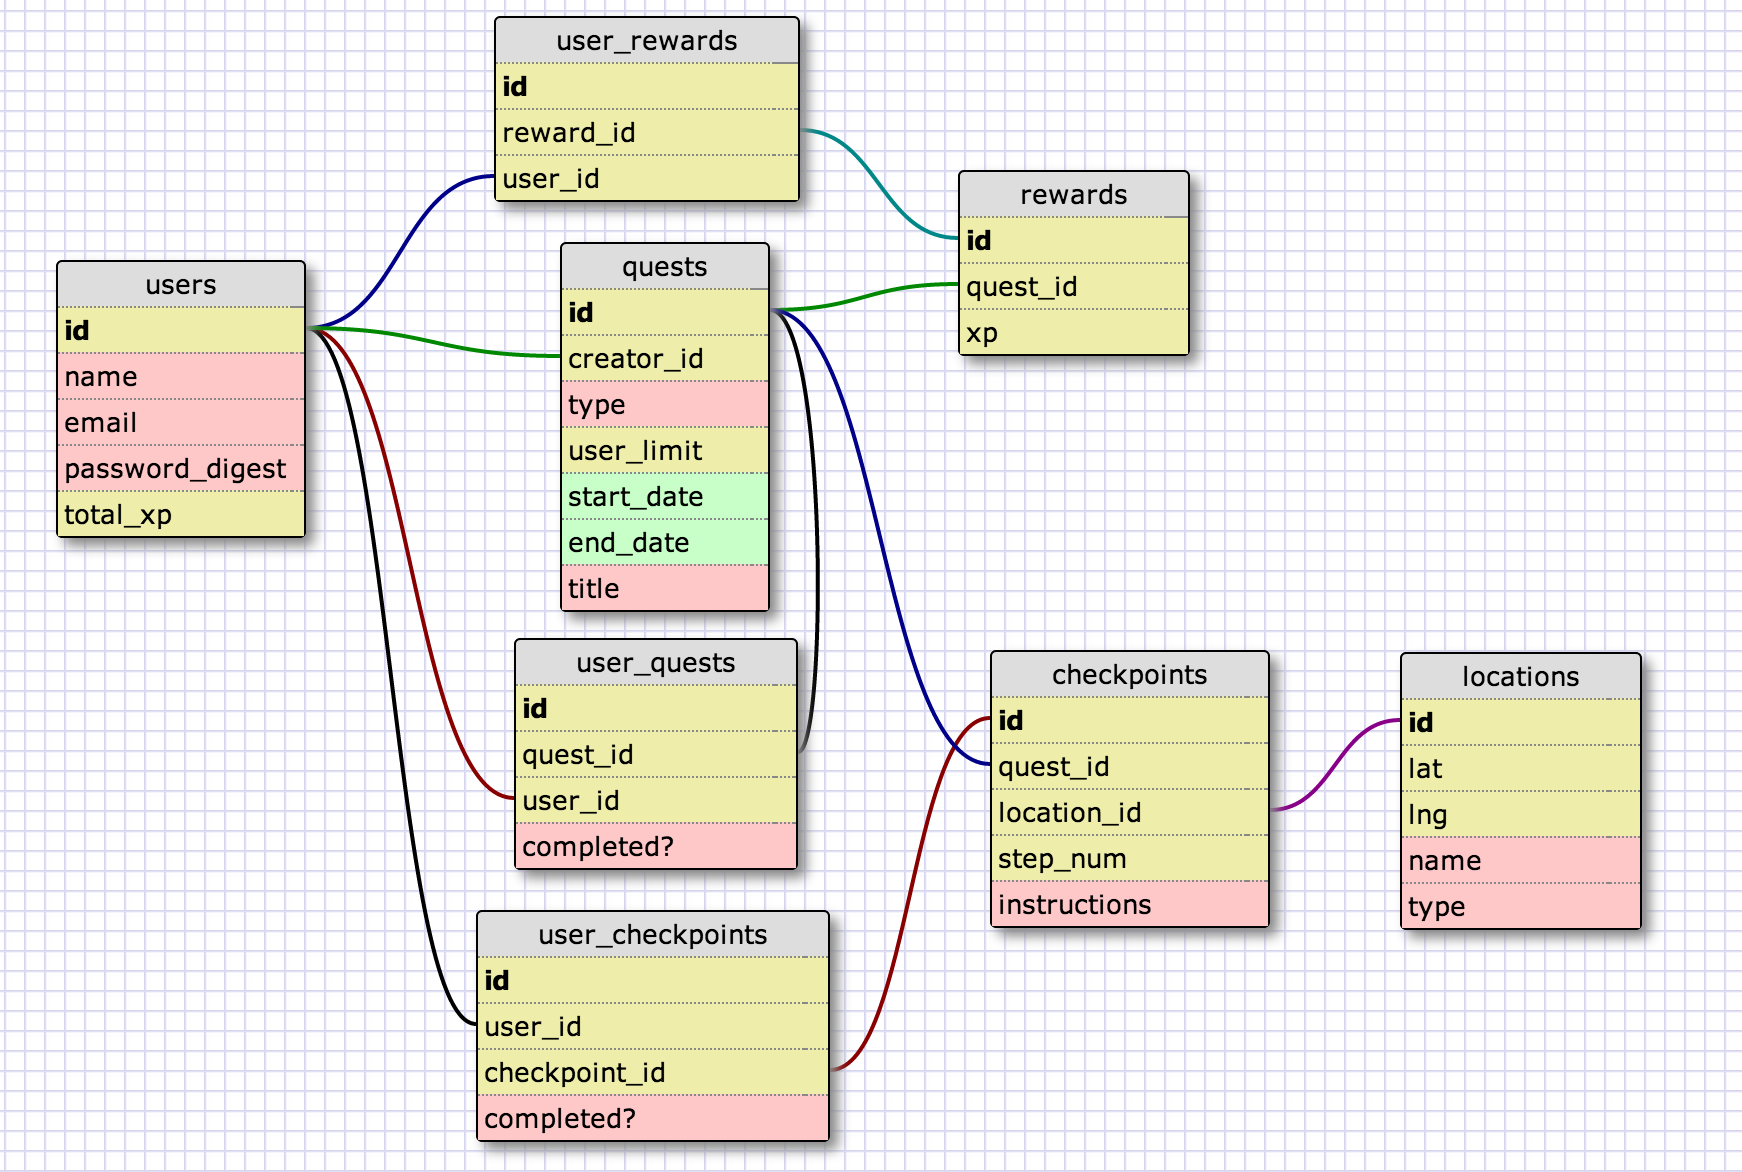
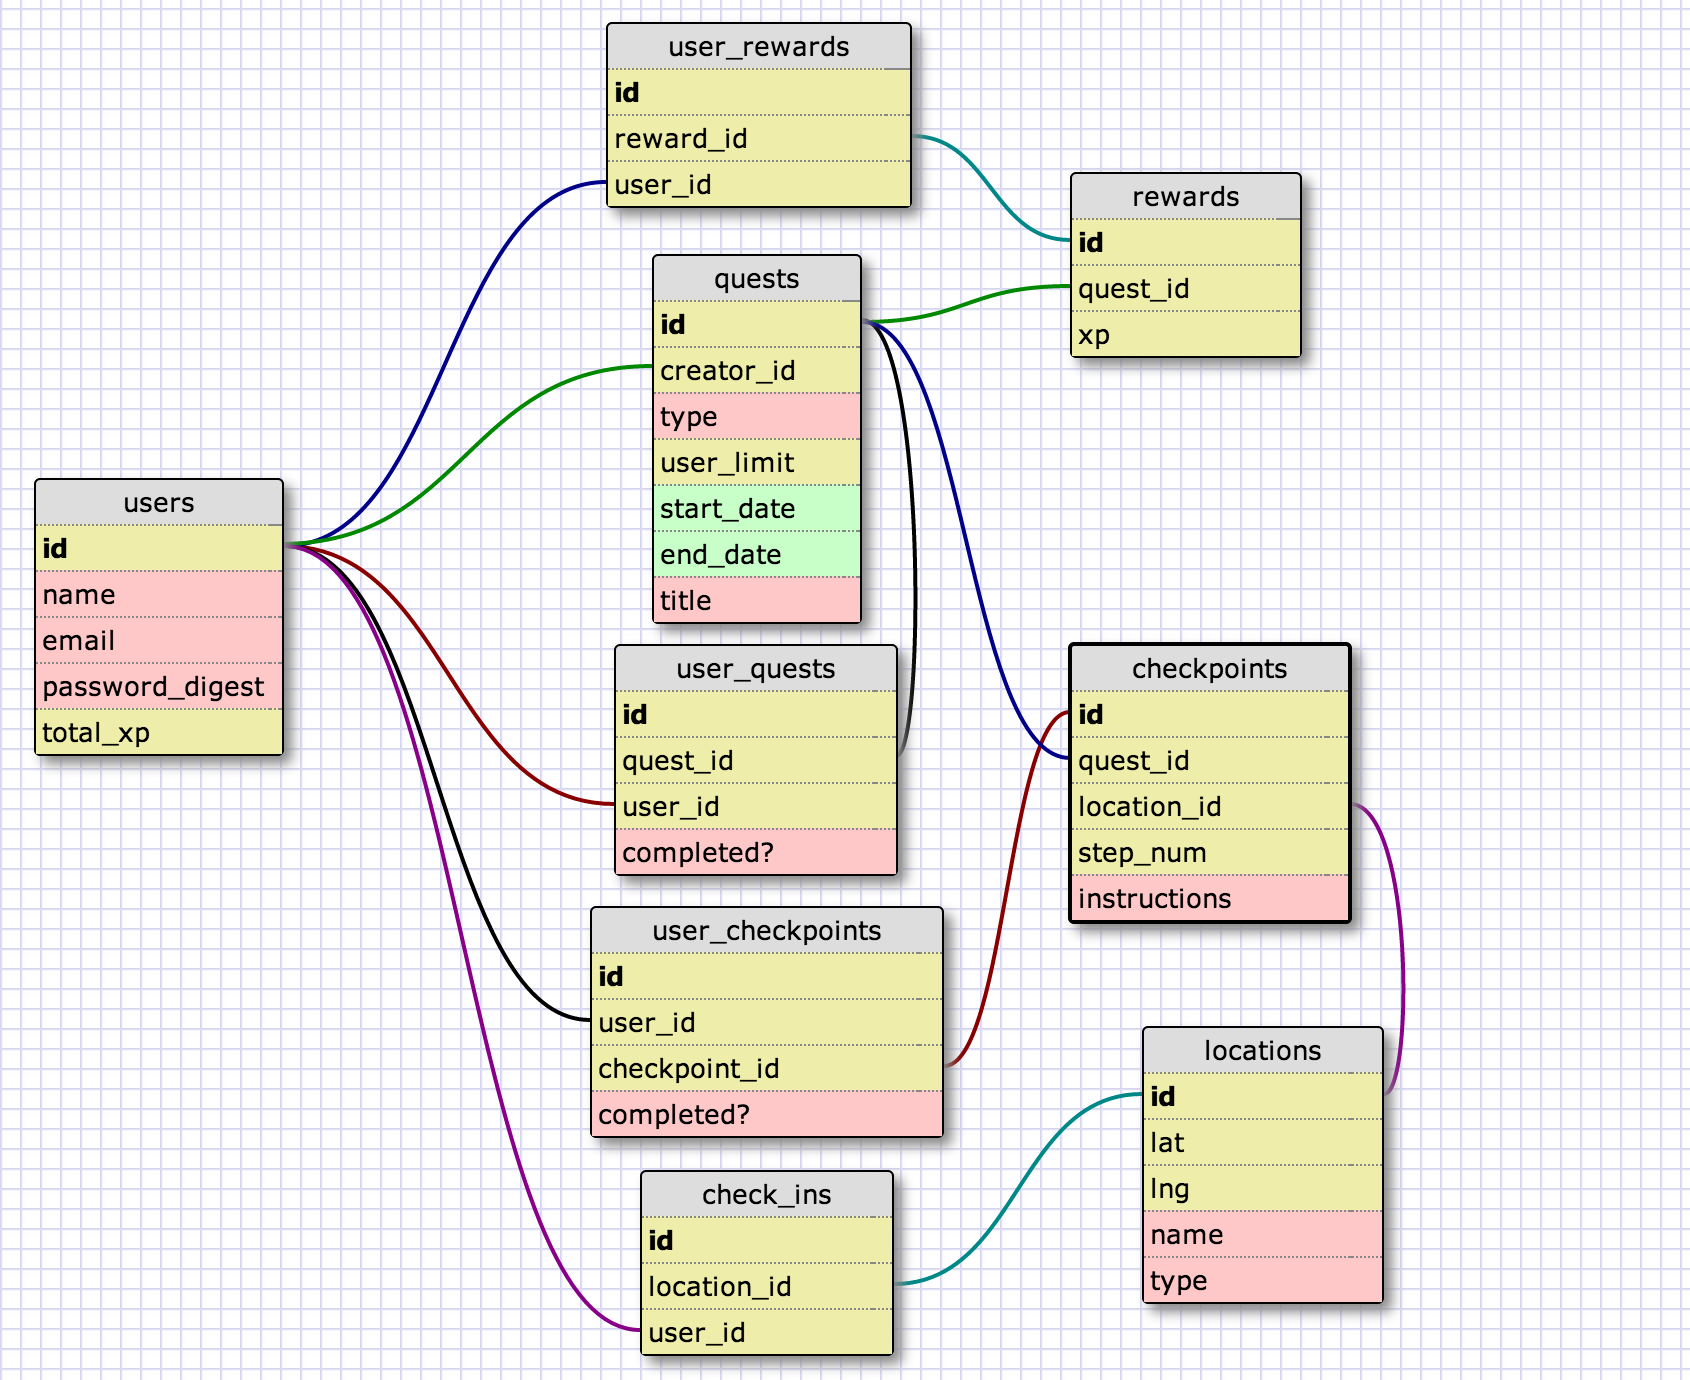
added schema 4.0. includes checkin table

diff --git a/db/schema.rb b/db/schema.rb
@@ -11,10 +11,17 @@
 #
 # It's strongly recommended that you check this file into your version control system.
 
-ActiveRecord::Schema.define(version: 20140724150656) do
+ActiveRecord::Schema.define(version: 20140725012516) do
 
   # These are extensions that must be enabled in order to support this database
   enable_extension "plpgsql"
+
+  create_table "check_ins", force: true do |t|
+    t.integer  "location_id"
+    t.integer  "user_id"
+    t.datetime "created_at"
+    t.datetime "updated_at"
+  end
 
   create_table "checkpoints", force: true do |t|
     t.integer  "quest_id"
@@ -37,8 +44,8 @@ ActiveRecord::Schema.define(version: 20140724150656) do
   create_table "quests", force: true do |t|
     t.integer  "creator_id"
     t.string   "type"
-    t.integer  "user_limit"
-    t.datetime "start_date"
+    t.integer  "user_limit", default: -1
+    t.datetime "start_date", default: '2014-07-25 01:32:45'
     t.datetime "end_date"
     t.text     "title"
     t.datetime "created_at"

diff --git a/db/migrate/20140725012516_create_check_ins.rb b/db/migrate/20140725012516_create_check_ins.rb
@@ -1,0 +1,10 @@
+class CreateCheckIns < ActiveRecord::Migration
+  def change
+    create_table :check_ins do |t|
+      t.belongs_to :location
+      t.belongs_to :user
+
+      t.timestamps
+    end
+  end
+end

diff --git a/spec/models/check_in_spec.rb b/spec/models/check_in_spec.rb
@@ -1,0 +1,6 @@
+require 'rails_helper'
+
+RSpec.describe CheckIn, :type => :model do
+  it {should belong_to(:location)}
+  it {should belong_to(:user)}
+end

diff --git a/app/models/check_in.rb b/app/models/check_in.rb
@@ -1,0 +1,4 @@
+class CheckIn < ActiveRecord::Base
+	belongs_to :user
+	belongs_to :location
+end
